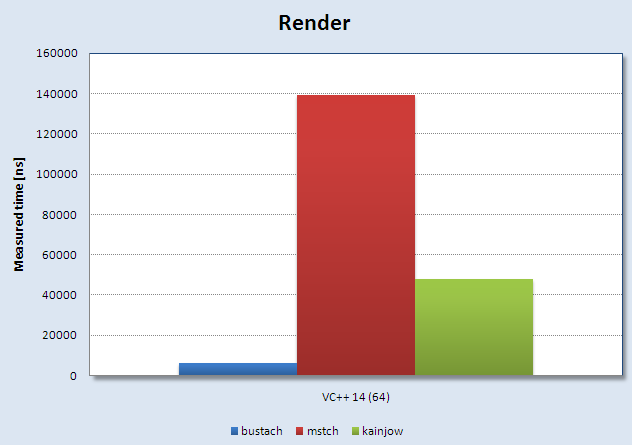
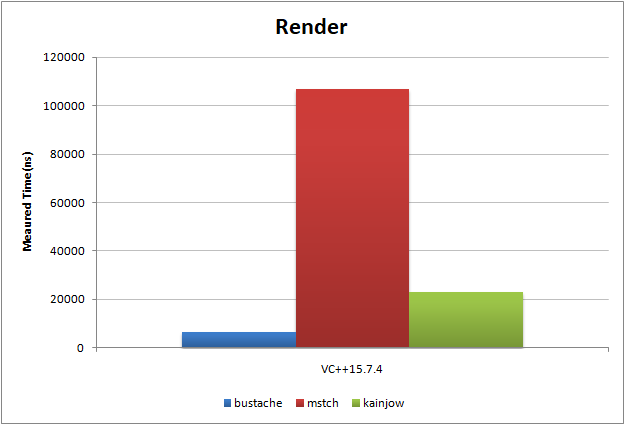
Update benchmark.

diff --git a/test/benchmark.cpp b/test/benchmark.cpp
@@ -187,47 +187,67 @@ static void mstch_usage(benchmark::State& state)
 
 static void kainjow_usage(benchmark::State& state)
 {
-    using namespace Kainjow;
-    using Data = Mustache::Data;
+    using namespace kainjow::mustache;
 
     int n = 0;
-    Data data;
-    data.set("header", "Colors");
+    object dat
     {
-        Data d1, d2, d3;
-        d1.set("name", "red");
-        d1.set("first", Data::Type::True);
-        d1.set("url", "#Red");
-        d2.set("name", "green");
-        d2.set("link", Data::Type::True);
-        d2.set("url", "#Green");
-        d3.set("name", "blue");
-        d3.set("link", Data::Type::True);
-        d3.set("url", "#Blue");
-        data.set("items", Data::ListType{d1, d2, d3});
-    }
-    data.set("empty", Data::Type::False);
-    data.set("count", Data::LambdaType{[&n](const std::string&) { return std::to_string(++n); }});
-    data.set("array", Data::ListType{"1", "2", "3"});
-    data.set("a", {"b",{"c", "true"}});
-    {
-        Data d1, d2, d3;
-        d1.set("name", "Joe");
-        d1.set("body", "<html> should be escaped");
-        d2.set("name", "Sam");
-        d2.set("body", "{{mustache}} can be seen");
-        d3.set("name", "New");
-        d3.set("body", "break\nup");
-        data.set("comments", Data::ListType{d1, d2, d3});
-    }
-    data.set("href", Data::PartialType{[]() { return "href=\"{{url}}\""; }});
+        {"header", "Colors"},
+        {"items",
+            list
+            {
+                object
+                {
+                    {"name", "red"},
+                    {"first", true},
+                    {"url", "#Red"}
+                },
+                object
+                {
+                    {"name", "green"},
+                    {"link", true},
+                    {"url", "#Green"}
+                },
+                object
+                {
+                    {"name", "blue"},
+                    {"link", true},
+                    {"url", "#Blue"}
+                }
+            }
+        },
+        {"empty", false},
+        {"count", lambda{[&n](const std::string&) { return std::to_string(++n); }}},
+        {"array", list{"1", "2", "3"}},
+        {"a", object{{"b", object{{"c", true}}}}},
+        {"comments",
+            list
+            {
+                object
+                {
+                    {"name", "Joe"},
+                    {"body", "<html> should be escaped"}
+                },
+                object
+                {
+                    {"name", "Sam"},
+                    {"body", "{{mustache}} can be seen"}
+                },
+                object
+                {
+                    {"name", "New"},
+                    {"body", "break\nup"}
+                }
+            }
+        }
+    };
 
-    Mustache fmt(tmp);
+    mustache fmt(tmp);
 
     while (state.KeepRunning())
     {
         n = 0;
-        fmt.render(data);
+        fmt.render(dat);
     }
 }
 

diff --git a/README.md b/README.md
@@ -323,13 +323,21 @@ You can also use `what()` for a descriptive text.
 Compare with 2 other libs - [mstch](https://github.com/no1msd/mstch) and [Kainjow.Mustache](https://github.com/kainjow/Mustache).
 See [benchmark.cpp](test/benchmark.cpp). 
 
-Sample run (VS2015 Update 3, boost 1.60.0, 64-bit release build):
+Sample run (VS2017 15.7.4, boost 1.67.0, 64-bit release build):
 ```
+06/25/18 16:14:52
+Run on (8 X 3392 MHz CPU s)
+CPU Caches:
+  L1 Data 32K (x4)
+  L1 Instruction 32K (x4)
+  L2 Unified 262K (x4)
+  L3 Unified 8388K (x1)
+------------------------------------------------------
 Benchmark               Time           CPU Iterations
------------------------------------------------------
-bustache_usage       6325 ns       6397 ns     112179
-mstch_usage        140822 ns     140795 ns       4986
-kainjow_usage       47354 ns      47420 ns      14475
+------------------------------------------------------
+bustache_usage       6605 ns       6627 ns      89600
+mstch_usage        106620 ns     106027 ns       5600
+kainjow_usage       22828 ns      22949 ns      32000
 ```
 Lower is better.
 
@@ -337,7 +345,7 @@ Lower is better.
 
 ## License
 
-    Copyright (c) 2014-2017 Jamboree
+    Copyright (c) 2014-2018 Jamboree
 
     Distributed under the Boost Software License, Version 1.0. (See accompanying
     file LICENSE_1_0.txt or copy at http://www.boost.org/LICENSE_1_0.txt)
